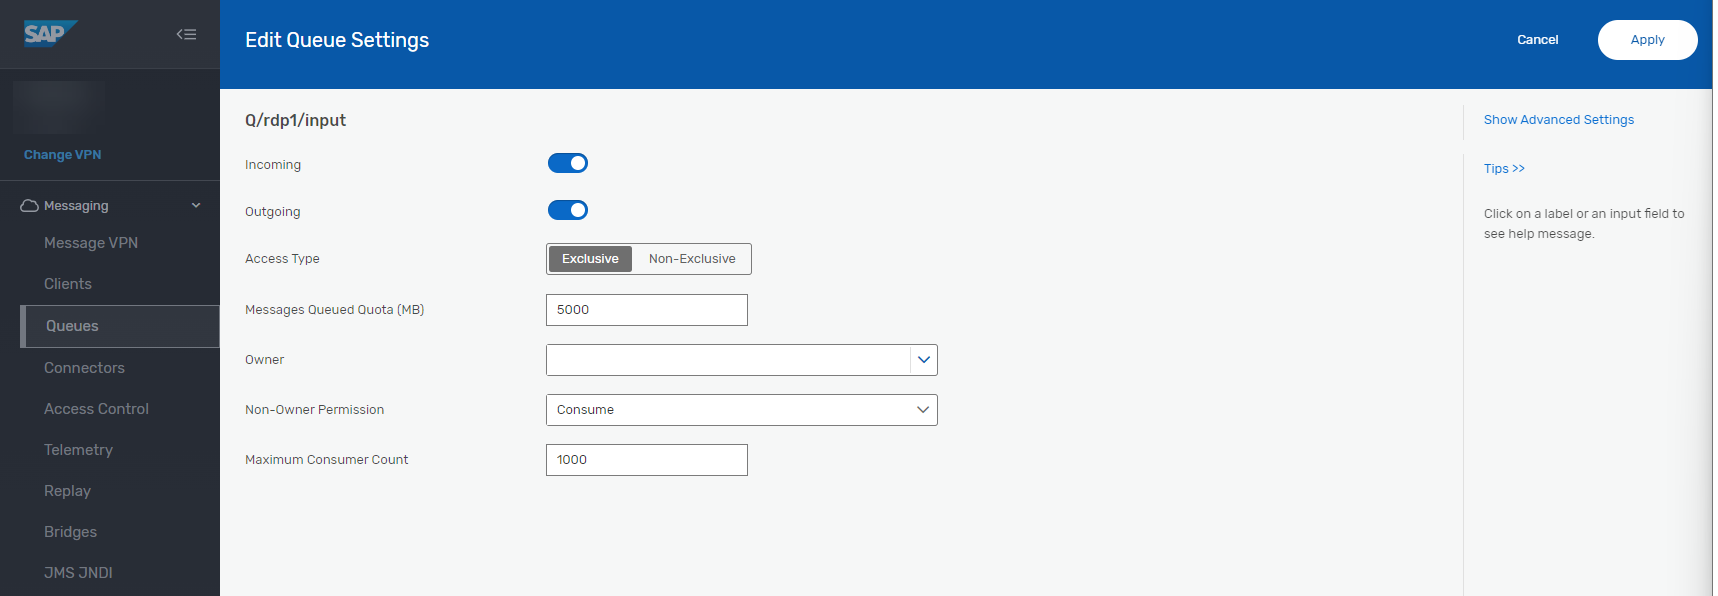
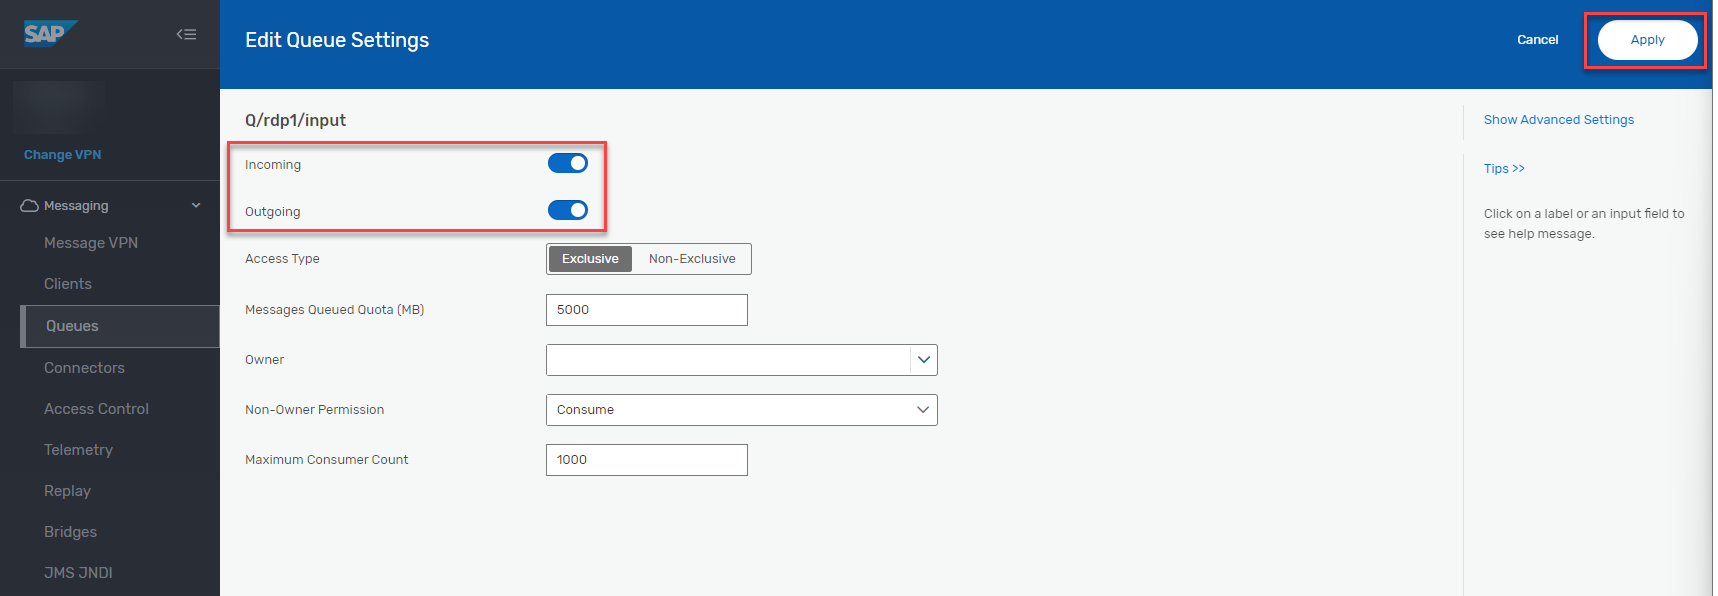
updated aws steps

Changed region(s): [[0.1234, 0.2114, 0.3702, 0.4228], [0.8946, 0.0, 1.0, 0.151]]

diff --git a/Documentation/Step5-Setup-AWS/README.md b/Documentation/Step5-Setup-AWS/README.md
@@ -17,12 +17,17 @@ This project is set up like a standard Python project.  For an integrated develo
    ![plot](./images/PPE_CDK.png)
 
 
-2.  Clone the github repository and navigate to the directory.
+2.  Clone the github repository
 
 ```
-git clone <git-repo-link>
+git clone https://github.com/SAP-samples/btp-aws-ppe-detection-ehs.git
 
-cd ppedetection-ehs
+```
+
+Navigate to the directory.
+
+```
+cd Code/AWS
 ```
 
 The `appConfig.json` file takes the input paramters for the stack. Maintain the following parameters in the `appConfig.json`.
@@ -71,9 +76,8 @@ To Create a S3 Bucket, Follow steps as below:
       
    4. In the AWS region select the region for your S3 bucket. **Please note that your bucket must be created in the same region as your VPC subnet**
       
-   5. Leave remaining options as default, scroll down and click 'Create' bucket.
+   5. Leave remaining options as default, scroll down and click **Create bucket** button.
 
-* `inferencefolder` Enter the name of the folder(prefix)where the inferences/data are sent (path to folder in your S3 bucket, for example, **s3bucket1/ppe** is the path and **ppe** is **inferencefolder**). Leave blank if no folder
 
 ## SAP Environnment details
 
@@ -81,33 +85,49 @@ The following are the two SAP Environment variables:
 * `SAP_AEM_CREDENTIALS` (example: arn:aws:secretsmanager://region/account/secret:sapemauth-pnyaRN)
 * `SAP_AEM_REST_URL` (example: https://mr-connection-giuyy7qx0z1.messaging.solace.cloud:9443/topic)
 
-The values for these variables needs to be stored in the **AWS Secrets Manager**. Go to your **AWS account** and search for **secret**, choose **Secrets Manager**
+### For SAP_AEM_CREDENTIALS, follow the steps below.
+
+1. The values for these variables needs to be stored in the **AWS Secrets Manager**. Go to your **AWS account** and search for **secret**, choose **Secrets Manager**
 
  ![plot](./images/aws-secret.png)
 
-For Storing **SAP_AEM_CREDENTIALS** we need the Advanced Event Mesh UserName and Password. Open the Advanced Event Mesh Application from the BTP Cockpit. 
+2. For Storing **SAP_AEM_CREDENTIALS** we need the Advanced Event Mesh UserName and Password. Open the Advanced Event Mesh Application from the BTP Cockpit. 
 
  ![plot](./images/access-aem.png)
 
-In the Application, Navigate to the Cluster Service **PPE** created in **Step1** and Click on **Connect** Tab. 
+3. In the Application, Navigate to the Cluster Service **PPE** created in **Step1** and Click on **Connect** Tab. 
 
  ![plot](./images/aem-connect.png)
 
-Copy the **Username** and **Password**.  
+4. Copy the **Username** and **Password**.  
 
  ![plot](./images/aem-connect.png)
 
-Click on **Store a new secret**
+5. Navigate back to **AWS Secrets Manager**, and Click on **Store a new secret**
 
 ![plot](./images/create-secret-1.png)
 
-Choose **Other type of secret** option under **Secret type**. Add two key-value pairs as **UserName and Password** and Paste the values copied from **Advanced Event Mesh Application**. Click on **Next**
+6. Choose **Other type of secret** option under **Secret type**. Add two key-value pairs as **UserName and Password** and Paste the values copied from **Advanced Event Mesh Application**. Click on **Next**
 
 ![plot](./images/secret-keys.png)
 
-Fill the **Secret name** as **sapaem-credentials** and Click on **Next**
+7. Fill the **Secret name** as **sapaem-credentials** and Click on **Next**
 
-![plot](./images/secret-keys.png)
+8. Click on the created secret and copy the Secret ARN value and use it in appConfig.json for **SAP_AEM_CREDENTIALS**.
+
+![plot](./images/secret-arn.png)
+
+### For SAP_AEM_REST_URL, follow the steps below.
+ 
+1. Go to your Advanced Event Mesh Application, and from the **Connect** Tab, copy the **Secured REST Host**
+ 
+   ![plot](./images/aem-rest-url-1.png)
+ 
+2. You have previously created a topic subscription named `monitron/messages`
+ 
+   ![plot](./images/aem-rest-url-2.png)
+ 
+So, the **SAP_AEM_REST_URL** is `Secured_REST_Host`/monitron/messages
 
 
 So your `appConfig.json` file looks as shown below: Fill all the details by following the steps mentioned above. 
@@ -126,7 +146,7 @@ So your `appConfig.json` file looks as shown below: Fill all the details by foll
         "SAP_AEM_REST_URL": "<your_aem_rest_url>"
     },
     "s3":{
-        "bucketname": "mybucket",
+        "bucketname": "<your_s3_bucket>",
         "camera": "CAM-01",
         "location": "CB-FL-001",
         "plant": "1710"
@@ -135,6 +155,34 @@ So your `appConfig.json` file looks as shown below: Fill all the details by foll
    }
    
    ```
+
+## AWS Credentials to access AWS account from SAP Business Application Studio
+
+1. Goto [AWS Console](https://us-east-1.console.aws.amazon.com) and search for **iam** and open the IAM console.
+
+![plot](./images/aws-iam-1.png)
+
+2. Click on **Users**
+
+![plot](./images/aws-iam-2.png)
+
+3. Click on your user, then click on **Security Credentials** tab and then click on **Create access key** button
+
+![plot](./images/aws-iam-3.png)
+
+4. In the **Create access key** page, select **Application running outside AWS** option and then click on **Next**
+
+![plot](./images/aws-iam-4.png)
+
+5. Click on **Create access key** button to create the access key
+
+![plot](./images/aws-iam-5.png)
+
+6. Note down the values of **Access key** and **Secret Access key** by clicking on the respective copy buttons.
+
+![plot](./images/aws-iam-6.png)
+
+
 ## Deploying the CDK Project
 
 Now that we have cloned the repository and updated the `appConfig.json` file, we proceed with the steps related to deployment. Open the terminal.
@@ -167,8 +215,15 @@ pip install -r requirements.txt
 The `appConfig.json` file takes the input paramters for the stack. Maintain the following parameters in the `appConfig.json` before deploying the stack
 
 Add your AWS credentials configuration as below to allow SAP Business Application Studio environment to access your AWS account.
-* export AWS_ACCESS_KEY_ID="<your_access_key_here>"
-* export AWS_SECRET_ACCESS_KEY="<your_access_secret_here>" 
+
+```
+export AWS_ACCESS_KEY_ID=<your_access_key_here>
+
+```
+
+```
+ export AWS_SECRET_ACCESS_KEY=<your_access_secret_here>
+```
 
 Bootstrap your AWS account for CDK. Please check [AWS CDK Tools - AWS Cloud Development](https://docs.aws.amazon.com/cdk/latest/guide/tools.html) for more details on bootstraping for CDK. Bootstraping deploys a CDK toolkit stack to your account and creates a S3 bucket for storing various artifacts. You incur any charges for what the AWS CDK stores in the bucket. Because the AWS CDK does not remove any objects from the bucket, the bucket can accumulate objects as you use the AWS CDK. You can get rid of the bucket by deleting the CDKToolkit stack from your account.
 

diff --git a/Documentation/Step1-Setup-SAPBTP-Subaccount/README.md b/Documentation/Step1-Setup-SAPBTP-Subaccount/README.md
@@ -19,7 +19,7 @@ If you are new to SAP BTP, follow the [Get Ready to Develop on SAP BTP](https://
 Service | Service Plan | Usage Scenario |
 --- | --- | --- |
 |[Authorization and Trust Management Service](https://discovery-center.cloud.sap/serviceCatalog/authorization-and-trust-management-service?region=all&tab=feature) | application | Manage application authorizations and connections to identity providers.|
-|[SAP Build Process Automation Decisions](https://discovery-center.cloud.sap/serviceCatalog/sap-build-process-automation?region=all) | standard | Digitize and automate decision making with SAP Build Process Automation- Decisions capability to increase flexibility and compliance.|
+|[SAP Build Process Automation- Decision capability](https://discovery-center.cloud.sap/serviceCatalog/sap-build-process-automation?region=all) | standard | Digitize and automate decision making with SAP Build Process Automation- Decisions capability to increase flexibility and compliance.|
 [Cloud Foundry Runtime](https://discovery-center.cloud.sap/serviceCatalog/cloud-foundry-runtime?region=all) | MEMORY | Create polyglot applications.The chosen quota defines the available amount of memory in GB.|
 [SAP Connectivity Service](https://discovery-center.cloud.sap/serviceCatalog/connectivity-service?service_plan=lite&region=all&commercialModel=cloud) | lite | Establish connections between cloud applications and on-premise systems.|
 [Destination Service](https://discovery-center.cloud.sap/serviceCatalog/destination?service_plan=lite&region=all&commercialModel=cloud) | lite | Destination service lets you find the destination information required to access a remote service or system from your extension application.|
@@ -66,4 +66,6 @@ If you already have an existing HANA Instance, you can map it to this SAP BTP su
 
 ### 4. Set Up SAP Business Application Studio
 
-Refer [Manage Authorizations and Roles](https://help.sap.com/docs/SAP%20Business%20Application%20Studio/9d1db9835307451daa8c930fbd9ab264/01e69c53003c4b0a8a64310a3f08867d.html) to assign permissions to users.
+1. Refer [Subscribe to SAP Business Application Studio](https://help.sap.com/docs/bas/sap-business-application-studio/subscribe-to-sap-business-application-studio) and subscribe to SAP Business Application Studio.
+
+2. Refer [Manage Authorizations and Roles](https://help.sap.com/docs/SAP%20Business%20Application%20Studio/9d1db9835307451daa8c930fbd9ab264/01e69c53003c4b0a8a64310a3f08867d.html) to assign permissions to users for accessing SAP Business Application Studio.

diff --git a/Documentation/Step4b-Advanced-Event-Mesh-Configuration/README.md b/Documentation/Step4b-Advanced-Event-Mesh-Configuration/README.md
@@ -43,7 +43,7 @@
 
      ![plot](./images/aem-create-queue.png)
 
-     Enable both incoming and outgoing configuration
+     Enable both incoming and outgoing configuration and Click on **Apply** button.
 
      ![plot](./images/aem-queue2.png)    
 
